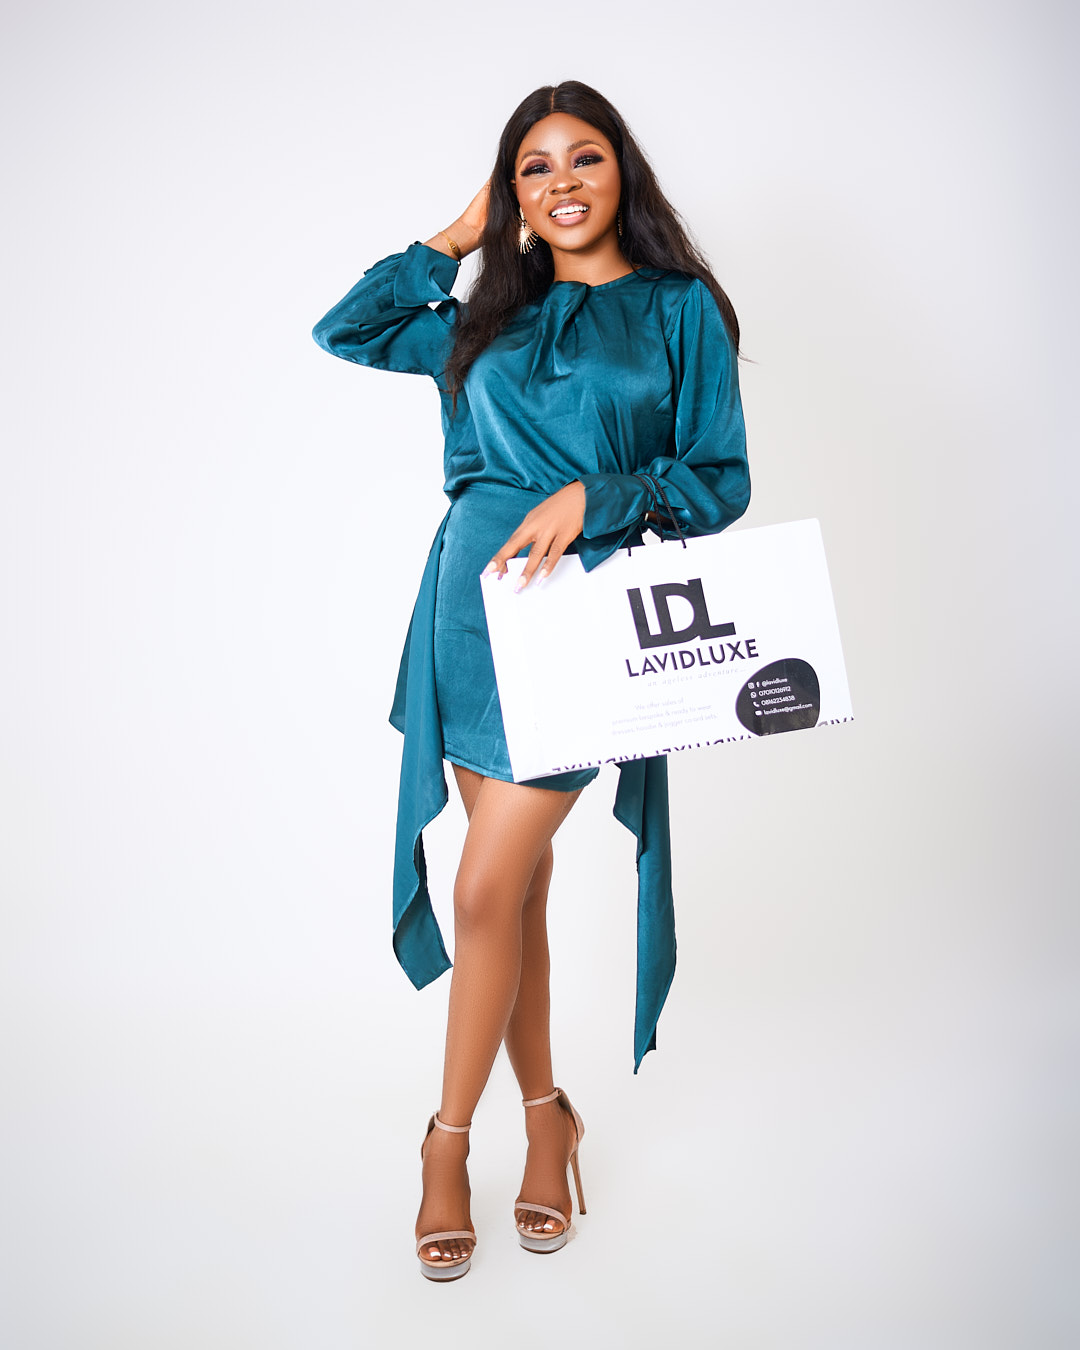
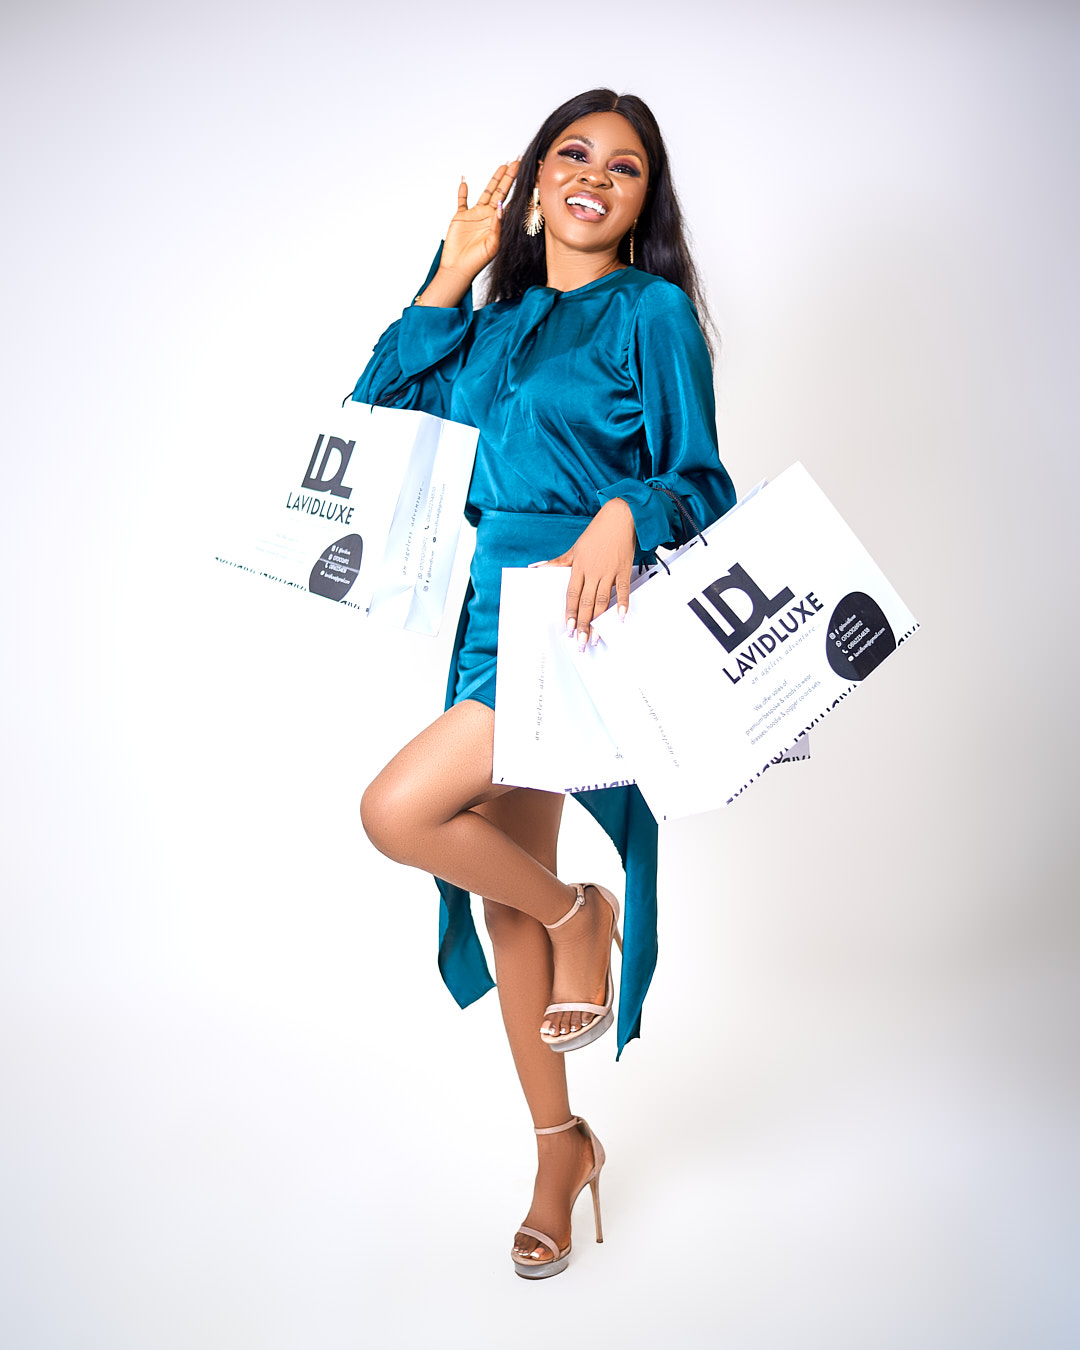
fix: image not showing

Changed region(s): [[0.275, 0.0622, 0.8556, 0.9644], [0.9167, 0.0, 1.0, 0.0311], [0.9778, 0.6844, 1.0, 0.7156]]

diff --git a/pages/shop/[slug].tsx b/pages/shop/[slug].tsx
@@ -7,6 +7,7 @@ import logo from '../../assets/images/logo-three.png'
 import { Filter } from '../../components/Filter'
 import { Layout } from '../../components/Layout'
 import { StoreLayout } from '../../components/StoreLayout'
+import laviduxe from '../../public/lavidluxe-two.jpg'
 import { openCartDrawer } from '../../store/drawerAtom'
 
 const Store = () => {
@@ -68,12 +69,12 @@ const Store = () => {
                 key={product.id}
                 className='group transition-colors'>
                 <div className='relative'>
-                  <img
-                    src='http://cubecreationthemes.com/html/lola/images/Shop/shop-img-hover-4.jpg'
-                    alt=''
-                    className='rounded'
+                  <Image
+                    alt='product'
+                    src={laviduxe}
+                    className='h-80 lg:h-[35rem] rounded object-cover object-top'
+                    // src='http://cubecreationthemes.com/html/lola/images/Shop/shop-img-hover-4.jpg'
                   />
-
                   <Image
                     alt='lavidluxe logo'
                     src={logo}
